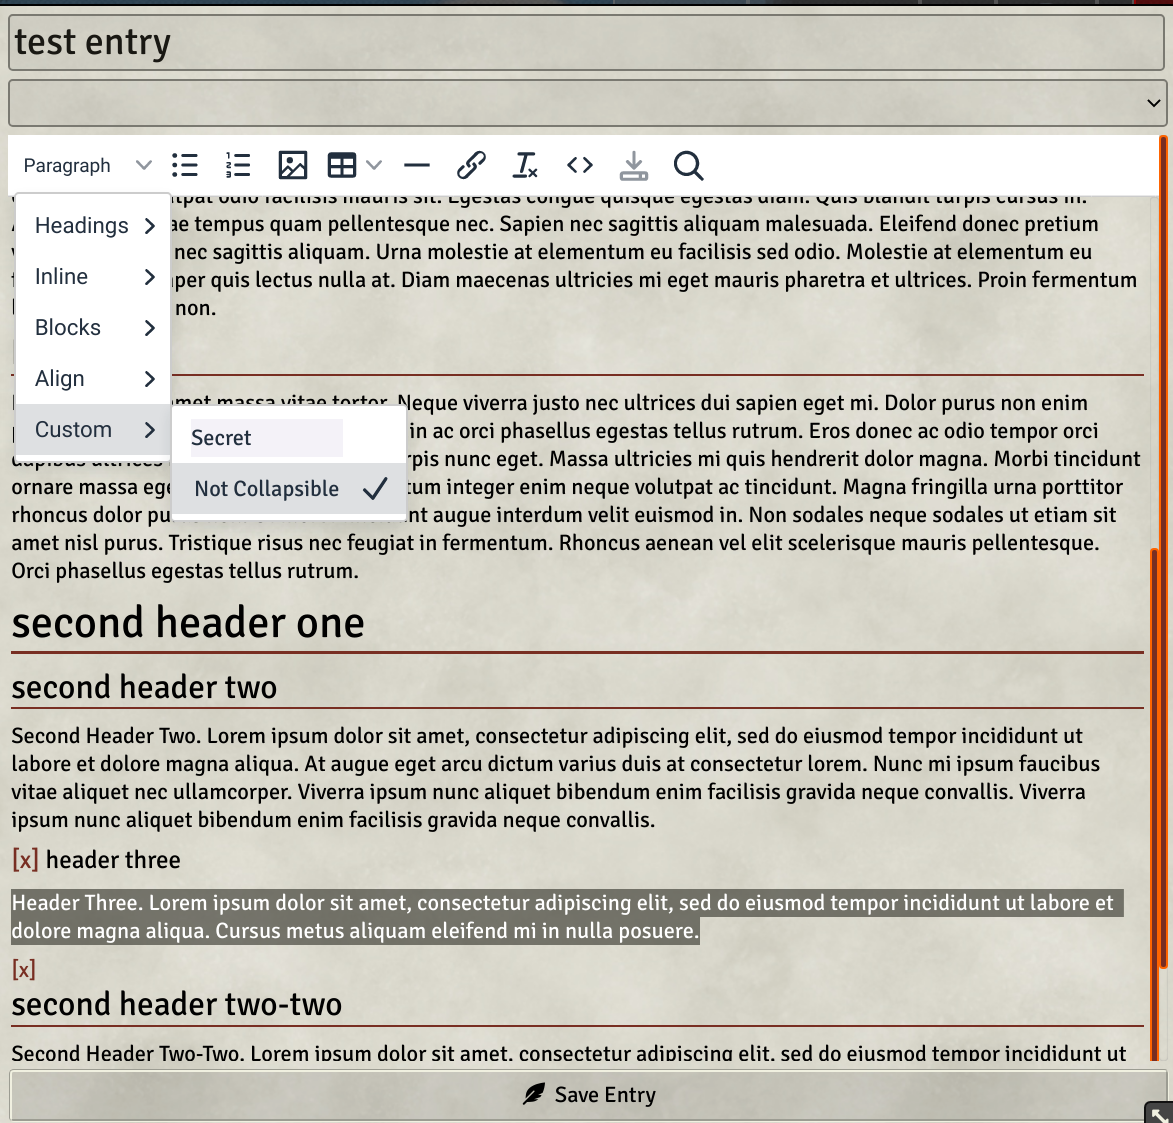
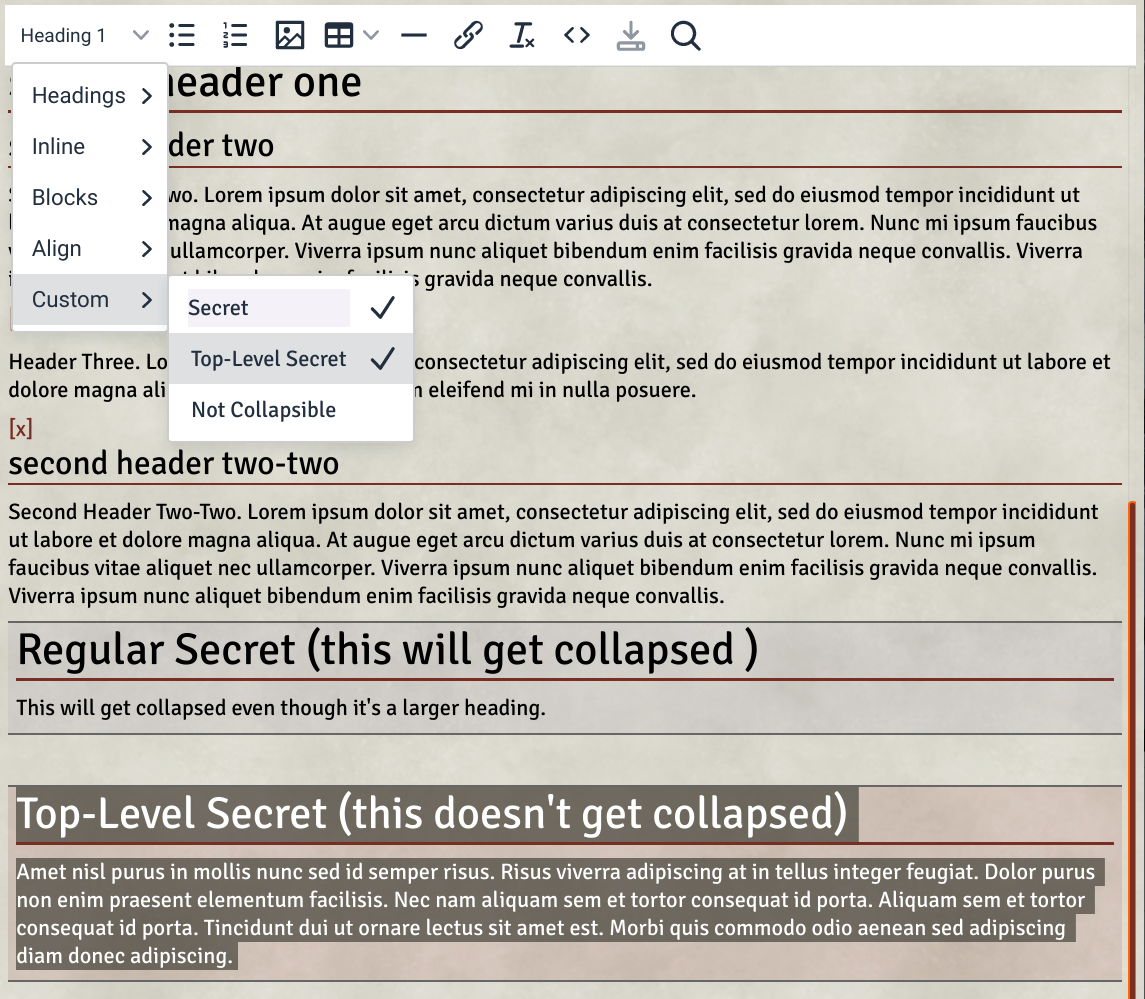
Readme Updates

diff --git a/cjs.css b/cjs.css
@@ -36,3 +36,7 @@ section.cjs-no_collapse *:first-child:before {
 .labelTxtMatchedSection {
   background-color: rgba(251, 255, 0, 0.2);
 }
+
+section.secret.cjs-top_level_secret {
+  background: rgba(121, 0, 0, 0.11);
+}

diff --git a/README.md b/README.md
@@ -23,11 +23,21 @@ Here's How
 1. After placing a map note for a journal entry, enter the heading you want to link to in the Text Label field.
 2. That’s it! Now when you click that map note to open its journal, if there’s a heading matching the text you entered into the Text Label field, that section will be expanded and highlighted.
 
+<p style="float:left">
+  <img src="cjs-map-link-text-label.png" width="400px">
+  <img src="cjs-top-level-secret-and-map-link.png" width="400px">
+</p>
+
 ## Top-Level Secrets
 Normal secret sections will collapse into headings just as text would. The new 'Top-Level Secret' style fixes this.  
 **Top-Level Secret sections won't be collapsed.**  
 
-_Make sure to put **BOTH** the 'secret' style and the 'Top-Level Secret' style on a Top-Level Secret._
+_Don't make a section both a secret and a top-level secret. Choose only 1._
+
+<p style="float:left">
+  <img src="cjs-top-level-secret.png" width="400px">
+  <img src="cjs-top-level-secret-collapsed.png" width="400px">
+</p>
 
 ## Settings
 #### Default Collapsed State
